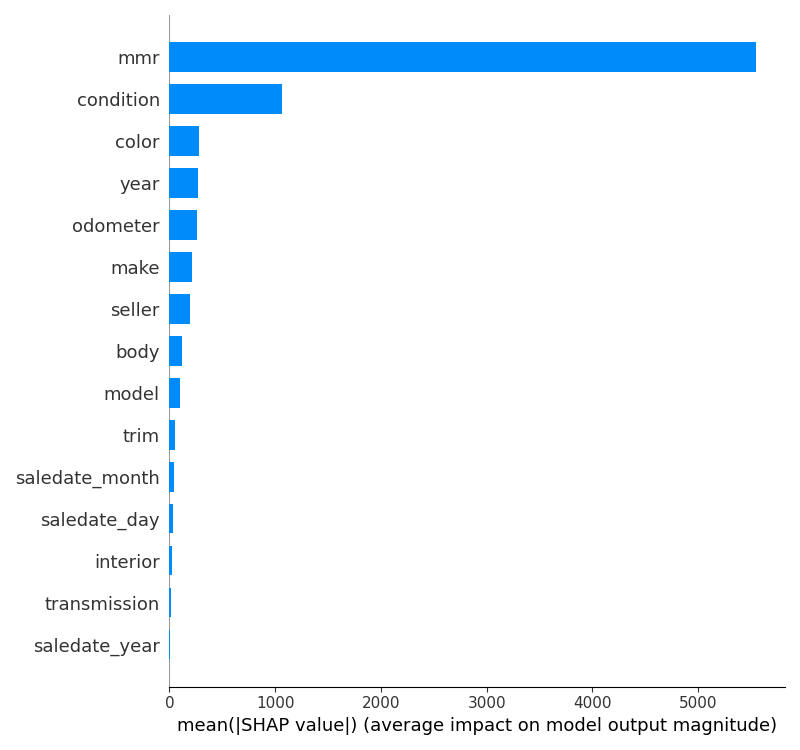
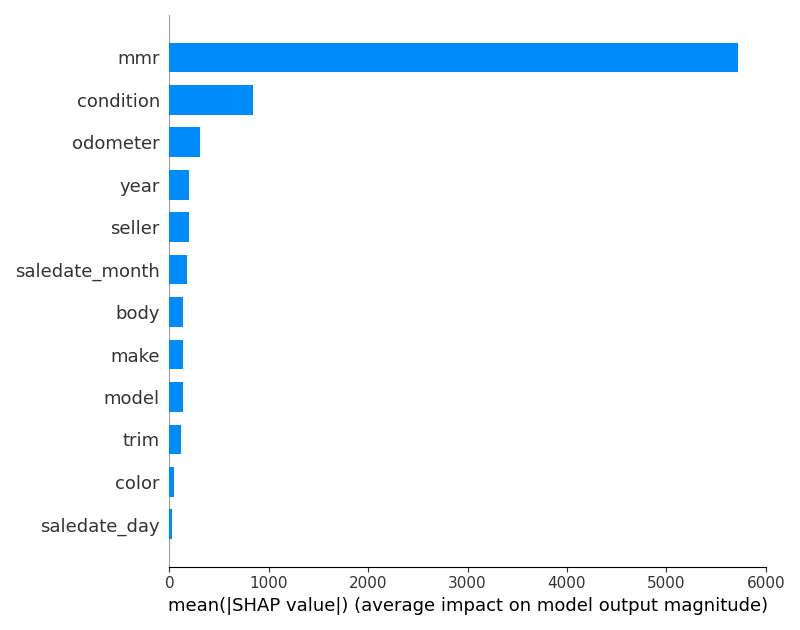
feat: optimize dataset

Changed region(s): [[0.0, 0.0302, 0.9688, 0.8746], [0.1875, 0.9048, 1.0, 0.9952]]

diff --git a/model.py b/model.py
@@ -32,8 +32,9 @@ class LightGBM:
 
     def train(self, x_train, y_train, x_valid, y_valid):
         # Wrapping train and test dataset
-        train_data = lgb.Dataset(x_train, label=y_train, categorical_feature=["make", "model", "trim", "body", "transmission", "color", "interior", "seller", "saledate_day", "saledate_month", "saledate_year"])
-        test_data = lgb.Dataset(x_valid, label=y_valid, categorical_feature=["make", "model", "trim", "body", "transmission", "color", "interior", "seller", "saledate_day", "saledate_month", "saledate_year"])
+        # OPTIMIZE: Drop saledate_year, saledate_month, saledate_day, interior, transmission
+        train_data = lgb.Dataset(x_train, label=y_train, categorical_feature=["make", "model", "trim", "body", "color", "seller", "saledate_month", "saledate_day"])
+        test_data = lgb.Dataset(x_valid, label=y_valid, categorical_feature=["make", "model", "trim", "body", "color", "seller", "saledate_month", "saledate_day"])
 
         # Tune hyperparameter
         param = self.get_param(x_train, x_valid, y_train, y_valid)
@@ -97,7 +98,8 @@ class CatBoost:
         param = catboost_search.getHyperParameter(x_train, x_valid, y_train, y_valid)
 
         # Add compulsory hyperparameter
-        param["cat_features"] = ["make", "model", "trim", "body", "transmission", "color", "interior", "seller", "saledate_day", "saledate_month", "saledate_year"]
+        # OPTIMIZE: Drop saledate_year, saledate_month, saledate_day, interior, transmission
+        param["cat_features"] = ["make", "model", "trim", "body", "color", "seller", "saledate_month", "saledate_day"]
         param["verbose"] = 200
         param["thread_count"] = 8
         param["task_type"] = "CPU"

diff --git a/lgbm_search.py b/lgbm_search.py
@@ -6,8 +6,9 @@ import sklearn.metrics
 
 
 def objective(trial, x_train, x_test, y_train, y_test):
-    train_data = lgb.Dataset(x_train, label=y_train, categorical_feature=["make", "model", "trim", "body", "transmission", "color", "interior", "seller", "saledate_day", "saledate_month", "saledate_year"])
-    test_data = lgb.Dataset(x_test, label=y_test, categorical_feature=["make", "model", "trim", "body", "transmission", "color", "interior", "seller", "saledate_day", "saledate_month", "saledate_year"])
+    # OPTIMIZE: Drop saledate_year, saledate_month, saledate_day, interior, transmission
+    train_data = lgb.Dataset(x_train, label=y_train, categorical_feature=["make", "model", "trim", "body", "color", "seller", "saledate_month", "saledate_day"])
+    test_data = lgb.Dataset(x_test, label=y_test, categorical_feature=["make", "model", "trim", "body", "color", "seller", "saledate_month", "saledate_day"])
     param = {
         "objective": "regression",
         "metric": "rmse",

diff --git a/catboost_search.py b/catboost_search.py
@@ -6,7 +6,8 @@ from sklearn.metrics import mean_absolute_error,root_mean_squared_error, mean_ab
 
 def objective(trial, x_train, x_test, y_train, y_test):
     params = {
-        "cat_features": ["make", "model", "trim", "body", "transmission", "color", "interior", "seller", "saledate_day", "saledate_month", "saledate_year"],
+        # OPTIMIZE: Drop saledate_year, saledate_month, saledate_day, interior, transmission
+        "cat_features": ["make", "model", "trim", "body", "color", "seller", "saledate_month", "saledate_day"],
         "verbose": 0,
         "iterations": 200,
         "learning_rate": trial.suggest_float("learning_rate", 1e-3, 0.1, log=True),

diff --git a/preprocessing.py b/preprocessing.py
@@ -42,6 +42,8 @@ def car_preprocessing(df: pd.DataFrame):
     df = transform_datetime(df, "saledate")
     # Transform specified columns into categorical variables
     df, mapper = transform_categorical(df, ["make", "model", "trim", "body", "transmission", "color", "interior", "seller"])
+    # OPTIMIZE: Drop saledate_year, interior, transmission
+    df.drop(columns=["saledate_year", "interior", "transmission"], inplace=True)
     df.info()
     return df, mapper
 
